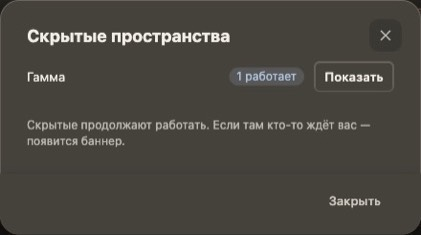
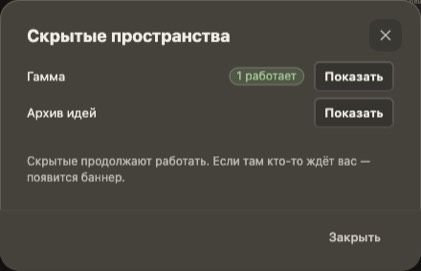
fix(r7): conformance visuals — resize badge and handles, link drag preview, hidden/move/browser dialogs, note title; new pairs

diff --git a/src/renderer/src/styles/app.css b/src/renderer/src/styles/app.css
@@ -348,7 +348,7 @@ button { border: 0; }
 .sticky-note-card { --card-header-height: calc(var(--card-header-h) * var(--ui-scale, 1)); position: absolute; left: 0; top: 0; overflow: hidden; border: 1px solid var(--status-waiting); border-radius: 14px; color: var(--text-primary); background: var(--surface-2); box-shadow: var(--edge), var(--elev-2); font-size: calc(13px * var(--ui-scale, 1)); }
 .sticky-note-card:focus-within, .sticky-note-card--selected { box-shadow: var(--edge), 0 0 0 2px var(--focus), var(--elev-3); }
 .sticky-note-card__header { height: var(--card-header-height); padding: 0 .5em 0 .9em; display: flex; align-items: center; justify-content: space-between; gap: .75em; color: var(--text-primary); background: var(--status-waiting-bg); cursor: move; touch-action: none; }
-.sticky-note-card__header > span { display: flex; align-items: center; gap: .55em; font: 850 .8em/1 var(--font-mono); text-transform: uppercase; }
+.sticky-note-card__header > span { display: flex; align-items: center; gap: .55em; font: 600 .95em/1 var(--font-ui, inherit); }
 .sticky-note-card__close { width: 2.15em; height: 2.15em; flex: 0 0 auto; display: grid; place-items: center; border-radius: .54em; color: color-mix(in srgb, var(--text-primary) 72%, transparent); background: color-mix(in srgb, var(--text-primary) 6%, transparent); cursor: pointer; transition: color .15s ease, background .15s ease; }
 .sticky-note-card__close:hover, .sticky-note-card__close:focus-visible { color: var(--danger-text); background: var(--danger); }
 .sticky-note-card__source { min-height: 2.2em; padding: .4em .9em; display: flex; align-items: center; justify-content: space-between; gap: .75em; font: 700 .75em/1 var(--font-mono); color: color-mix(in srgb, var(--text-primary) 72%, transparent); }
@@ -1163,7 +1163,8 @@ button { border: 0; }
 .agent-card { --card-header-height: calc(var(--card-header-h) * var(--ui-scale, 1)); position: absolute; left: 0; top: 0; display: flex; flex-direction: column; overflow: visible; border: 1px solid color-mix(in srgb, var(--surface-2) 70%, transparent); border-radius: 14px; color: var(--text-primary); background: var(--surface-2); box-shadow: var(--edge), var(--elev-2); font-size: calc(13px * var(--ui-scale, 1)); }
 .agent-card:focus-within, .agent-card--selected { box-shadow: var(--edge), 0 0 0 2px var(--focus), var(--elev-3); }
 .agent-card--offer-ok, .agent-card--offer-drop { box-shadow: var(--edge), 0 0 0 1.5px var(--focus), var(--elev-3); }
-.agent-card--offer-drop { box-shadow: var(--edge), 0 0 0 2px var(--focus), 0 0 0 5px color-mix(in srgb, var(--focus) 28%, transparent), var(--elev-3); }
+.agent-card--offer-drop { box-shadow: var(--edge), 0 0 0 3px var(--focus), 0 0 0 8px color-mix(in srgb, var(--focus) 28%, transparent), var(--elev-3); }
+.agent-card.agent-card--offer-source .agent-card__port { border-color: var(--focus); background: var(--focus); box-shadow: none; }
 .agent-card--offer-dim, .agent-card--offer-dim-over { opacity: .45; }
 .agent-card__offer { position: absolute; left: 50%; top: 56%; z-index: 30; padding: .3em .8em; border: 1px solid color-mix(in srgb, var(--focus) 45%, transparent); border-radius: 999px; background: color-mix(in srgb, var(--focus) 18%, var(--surface-4-solid)); color: var(--text-primary); font: 600 .85em/1.2 var(--font-ui, inherit); white-space: nowrap; pointer-events: none; transform: translate(-50%, -50%); }
 .agent-card--offer-dim-over .agent-card__offer { border-color: var(--border-strong); background: var(--surface-4-solid); }
@@ -1226,9 +1227,10 @@ button { border: 0; }
 .agent-link__hit { fill: none; stroke: transparent; stroke-width: 14px; vector-effect: non-scaling-stroke; pointer-events: stroke; cursor: pointer; }
 .agent-link--busy .agent-link__line { stroke: var(--status-working); }
 .agent-link--busy .agent-link__arrow { fill: var(--status-working); }
-.agent-link--waiting .agent-link__line, .agent-link--preview .agent-link__line { stroke: var(--status-waiting); }
-.agent-link--waiting .agent-link__arrow, .agent-link--preview .agent-link__arrow { fill: var(--status-waiting); }
-.agent-link--preview { opacity: .9; }
+.agent-link--waiting .agent-link__line { stroke: var(--status-waiting); }
+.agent-link--waiting .agent-link__arrow { fill: var(--status-waiting); }
+.agent-link--preview .agent-link__line { stroke: var(--focus); stroke-width: 4px; stroke-dasharray: 8 6; }
+.agent-link--preview .agent-link__arrow { fill: var(--focus); }
 .agent-link--waiting .agent-link__line { stroke-dasharray: 8 6; animation: agent-link-march 1s linear infinite; }
 @keyframes agent-link-march { to { stroke-dashoffset: -14; } }
 .agent-link--selected .agent-link__line { stroke-width: 3px; }
@@ -1647,7 +1649,7 @@ button { border: 0; }
 .ws-list li { display: flex; align-items: center; gap: 10px; min-height: 32px; }
 .ws-list li > span:first-child { min-width: 0; flex: 1; overflow: hidden; text-overflow: ellipsis; white-space: nowrap; }
 .ws-list__state { opacity: .7; font-size: 12px; }
-.ws-chip { flex: 0 0 auto; padding: 1px 8px; border-radius: 999px; font-size: 12px; color: var(--status-done); background: color-mix(in srgb, var(--status-done) 16%, transparent); }
+.ws-chip { flex: 0 0 auto; padding: 1px 8px; border-radius: 999px; font-size: 12px; color: var(--status-working); background: var(--status-working-bg); box-shadow: inset 0 0 0 1px color-mix(in srgb, var(--status-working) 40%, transparent); }
 .ws-pick { display: grid; gap: 2px; margin: 0; padding: 0 0 4px; list-style: none; }
 .orch-dialog .orch-form .ws-pick__row { display: flex; align-items: center; justify-content: space-between; gap: 10px; width: 100%; min-height: 38px; padding: 0 10px; border: 1px solid transparent; border-radius: 8px; background: transparent; color: var(--text-primary); font: inherit; text-align: left; cursor: pointer; }
 .ws-pick__row > span:last-child { color: var(--text-secondary); font-size: 12px; }
@@ -2093,6 +2095,10 @@ button { border: 0; }
 .orch-hint--line { white-space: nowrap; overflow: hidden; text-overflow: ellipsis; }
 .ws-dialog .orch-form__actions { flex-wrap: wrap; }
 .ws-dialog .orch-form__actions button { white-space: nowrap; }
+.ws-dialog .orch-form__actions button[data-ws-browser-go] { min-width: 0; overflow: hidden; text-overflow: ellipsis; }
+.ws-dialog [data-ws-browser-elsewhere] .orch-form__actions { flex-wrap: nowrap; }
+.orch-dialog .ws-list[data-ws-hidden] li > button { flex: 0 0 auto; border: 1px solid var(--border-strong); background: var(--surface-sunken); }
+.orch-dialog .orch-form__actions.ws-hidden__actions { box-shadow: inset 0 1px 0 var(--border); }
 
 /* Card resize (mock 18): eight square markers on the selected card while the pointer is over it, and the size badge during the drag */
 .terminal-card__resize-handle::after { content: ""; position: absolute; width: 12px; height: 12px; box-sizing: border-box; border: 1.5px solid var(--focus); border-radius: 4px; background: var(--surface-3-solid); opacity: 0; pointer-events: none; }
@@ -2103,4 +2109,5 @@ button { border: 0; }
 .terminal-card__resize-handle--e::after, .terminal-card__resize-handle--ne::after, .terminal-card__resize-handle--se::after { right: 0; }
 .terminal-card__resize-handle--w::after, .terminal-card__resize-handle--nw::after, .terminal-card__resize-handle--sw::after { left: 0; }
 :is(.terminal-card, .agent-card, .board-card, .browser-card, .sticky-note-card, .plugin-canvas-card):is(.terminal-card--selected, .agent-card--selected, .board-card--selected, .browser-card--selected, .sticky-note-card--selected, .plugin-canvas-card--selected):hover > .terminal-card__resize-handle::after { opacity: 1; }
+.terminal-card__resize-handle:active::after { background: var(--focus); }
 .resize-size-badge { position: fixed; z-index: 9000; padding: .25em .75em; border-radius: 999px; background: var(--surface-4-solid); box-shadow: inset 0 0 0 1px var(--border-strong), var(--elev-2); color: var(--text-primary); font: 600 12px/1.4 var(--font-mono); pointer-events: none; }

diff --git a/src/renderer/src/features/workspaces/WorkspaceUi.tsx b/src/renderer/src/features/workspaces/WorkspaceUi.tsx
@@ -243,7 +243,7 @@ function MoveDialog({ controls, orch, locale, layout, item, id, label, onClose }
             </ul>
             <p className="orch-hint">{tk(locale, "wsMoveHistoryStays")}</p>
           </div>
-        ) : <p className="orch-hint" data-ws-move-item>{label}</p>}
+        ) : <p className="orch-hint" data-ws-move-item>{item === "terminal" ? tr(locale, "wsMoveTerminal", { name: label }) : label}</p>}
         {blocked && <div className="orch-hint orch-hint--warn" role="status" data-ws-move-blocked>{t(locale, "orchError_group_active_run")}</div>}
         {targets.length === 0
           ? <p className="orch-hint" data-ws-move-none>{tk(locale, "wsMoveNoTarget")}</p>
@@ -517,7 +517,7 @@ function HiddenDialog({ controls, counts, locale, onClose }: { controls: Workspa
           ))}
         </ul>
         <p className="orch-hint">{tk(locale, "wsHiddenHint")}</p>
-        <div className="orch-form__actions"><button type="button" className="orch-cancel" onClick={onClose}>{tk(locale, "wsHiddenClose")}</button></div>
+        <div className="orch-form__actions ws-hidden__actions"><button type="button" className="orch-cancel" onClick={onClose}>{tk(locale, "wsHiddenClose")}</button></div>
       </div>
     </Dialog>
   );

diff --git a/src/renderer/src/features/orchestration/AgentScene.tsx b/src/renderer/src/features/orchestration/AgentScene.tsx
@@ -206,7 +206,7 @@ export function AgentScene(props: AgentSceneProps): React.JSX.Element {
             ended={view !== null && TERMINAL_STATUSES.includes(view.status)}
             message={ui.messages[card.agentId] ?? null}
             linking={ui.linkingFrom === card.agentId ? "source" : ui.linkingFrom && card.role === "executor" ? "target" : null}
-            offer={preview && card.agentId !== preview.from ? offerOf(card, agents.find((a) => a.card.agentId === preview.from)?.card, orch.canvas.links.some((l) => l.fromAgentId === preview.from && l.toAgentId === card.agentId), dropOver === card.agentId) : null}
+            offer={preview ? card.agentId === preview.from ? "source" : offerOf(card, agents.find((a) => a.card.agentId === preview.from)?.card, orch.canvas.links.some((l) => l.fromAgentId === preview.from && l.toAgentId === card.agentId), dropOver === card.agentId) : null}
             linked={link !== undefined}
             hasRun={!!link?.runIds.length}
             selected={props.groupSelected(layerId)}

diff --git a/src/renderer/src/lib/i18n.ts b/src/renderer/src/lib/i18n.ts
@@ -2133,6 +2133,7 @@ const ru = {
   wsMoveConfirm: "Перенести",
   wsMoveConfirmTo: "Перенести в «{name}»",
   wsMoveHere: "здесь сейчас",
+  wsMoveTerminal: "Терминал {name} · процесс не перезапускается",
   wsMoveCards_one: "{n} карточка",
   wsMoveCards_few: "{n} карточки",
   wsMoveCards_many: "{n} карточек",
@@ -4768,6 +4769,7 @@ const en: Record<keyof typeof ru, string> = {
   wsMoveConfirm: "Move",
   wsMoveConfirmTo: "Move to “{name}”",
   wsMoveHere: "here now",
+  wsMoveTerminal: "Terminal {name} · the process does not restart",
   wsMoveCards_one: "{n} card",
   wsMoveCards_few: "{n} cards",
   wsMoveCards_many: "{n} cards",

diff --git a/src/renderer/src/features/orchestration/AgentCard.tsx b/src/renderer/src/features/orchestration/AgentCard.tsx
@@ -30,7 +30,7 @@ interface AgentCardProps {
   message: CardMessage | null;
   linking: "source" | "target" | null; // keyboard/click linking mode
   linked: boolean;
-  offer?: "ok" | "drop" | "dim" | "dim-over" | null; // while a link is dragged from a port (mock 18): fits / under the pointer / other role or folder / the latter under the pointer
+  offer?: "source" | "ok" | "drop" | "dim" | "dim-over" | null; // while a link is dragged from a port (mock 18): fits / under the pointer / other role or folder / the latter under the pointer
   hasRun: boolean;
   selected: boolean;
   snapEnabled: boolean;

diff --git a/src/renderer/src/features/workspace/ResizeSizeBadge.tsx b/src/renderer/src/features/workspace/ResizeSizeBadge.tsx
@@ -11,7 +11,7 @@ export function ResizeSizeBadge(): React.JSX.Element | null {
     const show = (): void => {
       if (!card) return;
       const box = card.getBoundingClientRect();
-      setBadge({ text: `${card.offsetWidth} × ${card.offsetHeight}`, right: box.right, top: box.bottom + 8 });
+      setBadge({ text: `${card.offsetWidth} × ${card.offsetHeight}`, right: box.right, top: box.bottom + 14 });
     };
     const down = (event: PointerEvent): void => {
       if (!(event.target instanceof Element)) return;
